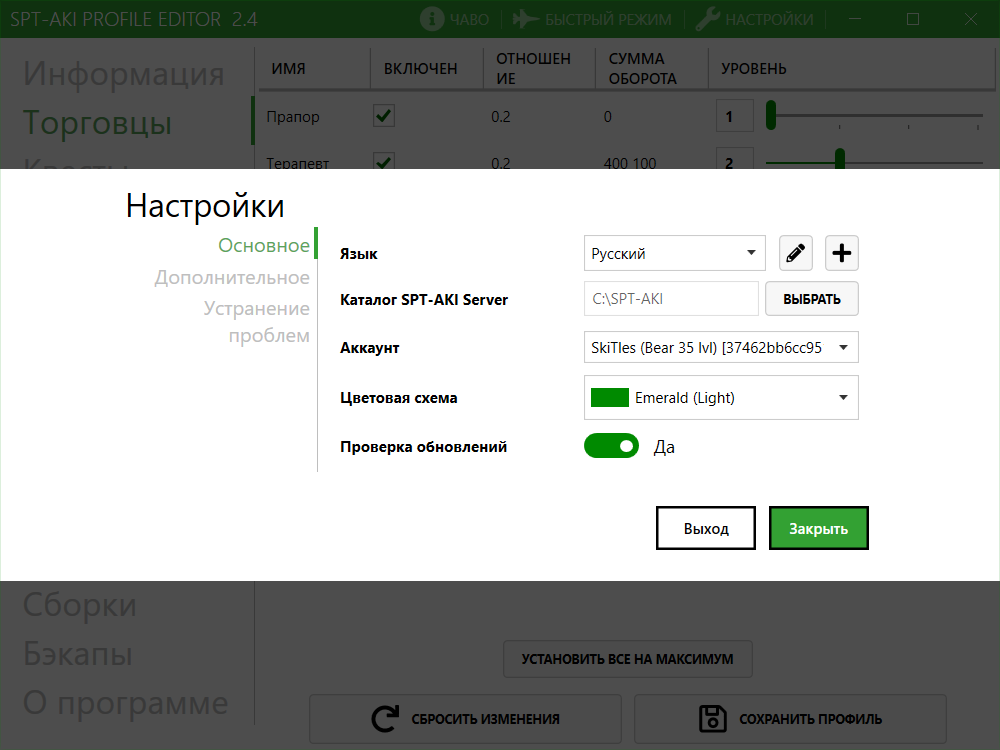
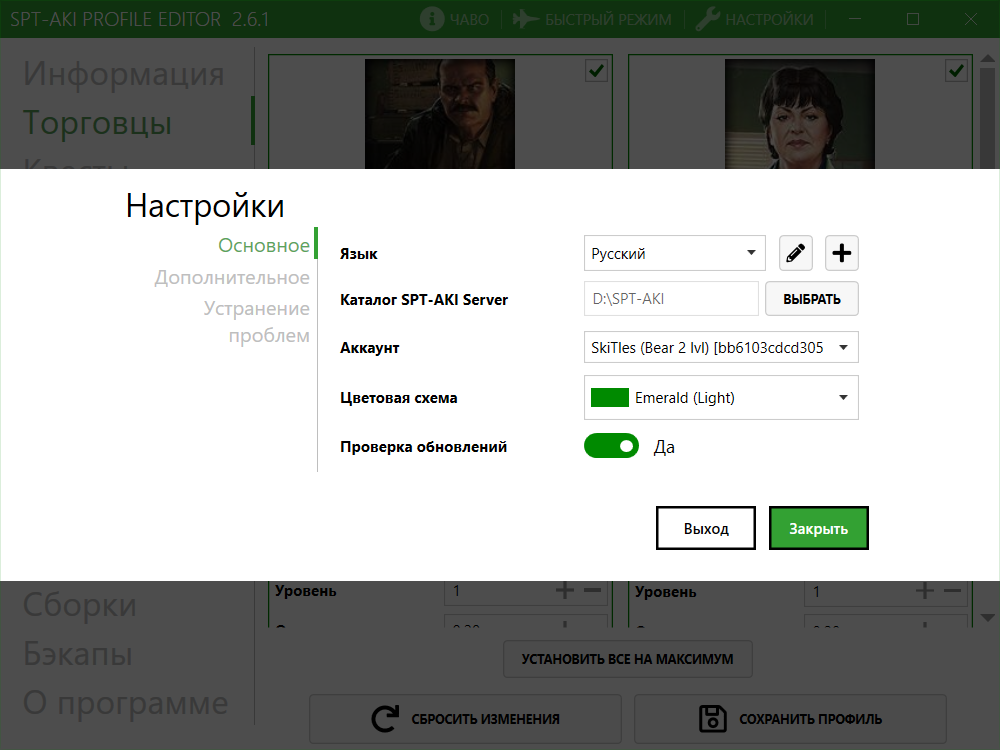
Prepare for 2.6.1

diff --git a/README.md b/README.md
@@ -13,7 +13,7 @@
 
 ### [Отправить баг репорт \ Предложить новую функцию](https://github.com/SkiTles55/SPT-AKI-Profile-Editor/issues/new/choose)
 
-### [Версия 2.6 для сервера SPT-AKI 3.4.0 - 3.5.0](https://github.com/SkiTles55/SPT-AKI-Profile-Editor/releases/tag/2.6)
+### [Версия 2.6.1 для сервера SPT-AKI 3.4.0 - 3.5.0](https://github.com/SkiTles55/SPT-AKI-Profile-Editor/releases/tag/2.6.1)
 ### [Версия 2.4.2 для сервера SPT-AKI 3.2.0 - 3.3.0](https://github.com/SkiTles55/SPT-AKI-Profile-Editor/releases/tag/2.4.2)
 ### [Версия 2.3.1 для сервера SPT-AKI 3.0.0 - 3.1.1](https://github.com/SkiTles55/SPT-AKI-Profile-Editor/releases/tag/2.3.1)
 ### [Версия 2.3 для сервера SPT-AKI 2.2.0 - 2.3.1](https://github.com/SkiTles55/SPT-AKI-Profile-Editor/releases/tag/2.3)

diff --git a/ENGREADME.md b/ENGREADME.md
@@ -13,7 +13,7 @@
 
 ### [Submit a bug report \ Feature request](https://github.com/SkiTles55/SPT-AKI-Profile-Editor/issues/new/choose)
 
-### [Version 2.6 for server SPT-AKI 3.4.0 - 3.5.0](https://github.com/SkiTles55/SPT-AKI-Profile-Editor/releases/tag/2.6)
+### [Version 2.6.1 for server SPT-AKI 3.4.0 - 3.5.0](https://github.com/SkiTles55/SPT-AKI-Profile-Editor/releases/tag/2.6.1)
 ### [Version 2.4.2 for server SPT-AKI 3.2.0 - 3.3.0](https://github.com/SkiTles55/SPT-AKI-Profile-Editor/releases/tag/2.4.2)
 ### [Version 2.3.1 for server SPT-AKI 3.0.0 - 3.1.1](https://github.com/SkiTles55/SPT-AKI-Profile-Editor/releases/tag/2.3.1)
 ### [Version 2.3 for server SPT-AKI 2.2.0 - 2.3.1](https://github.com/SkiTles55/SPT-AKI-Profile-Editor/releases/tag/2.3)
